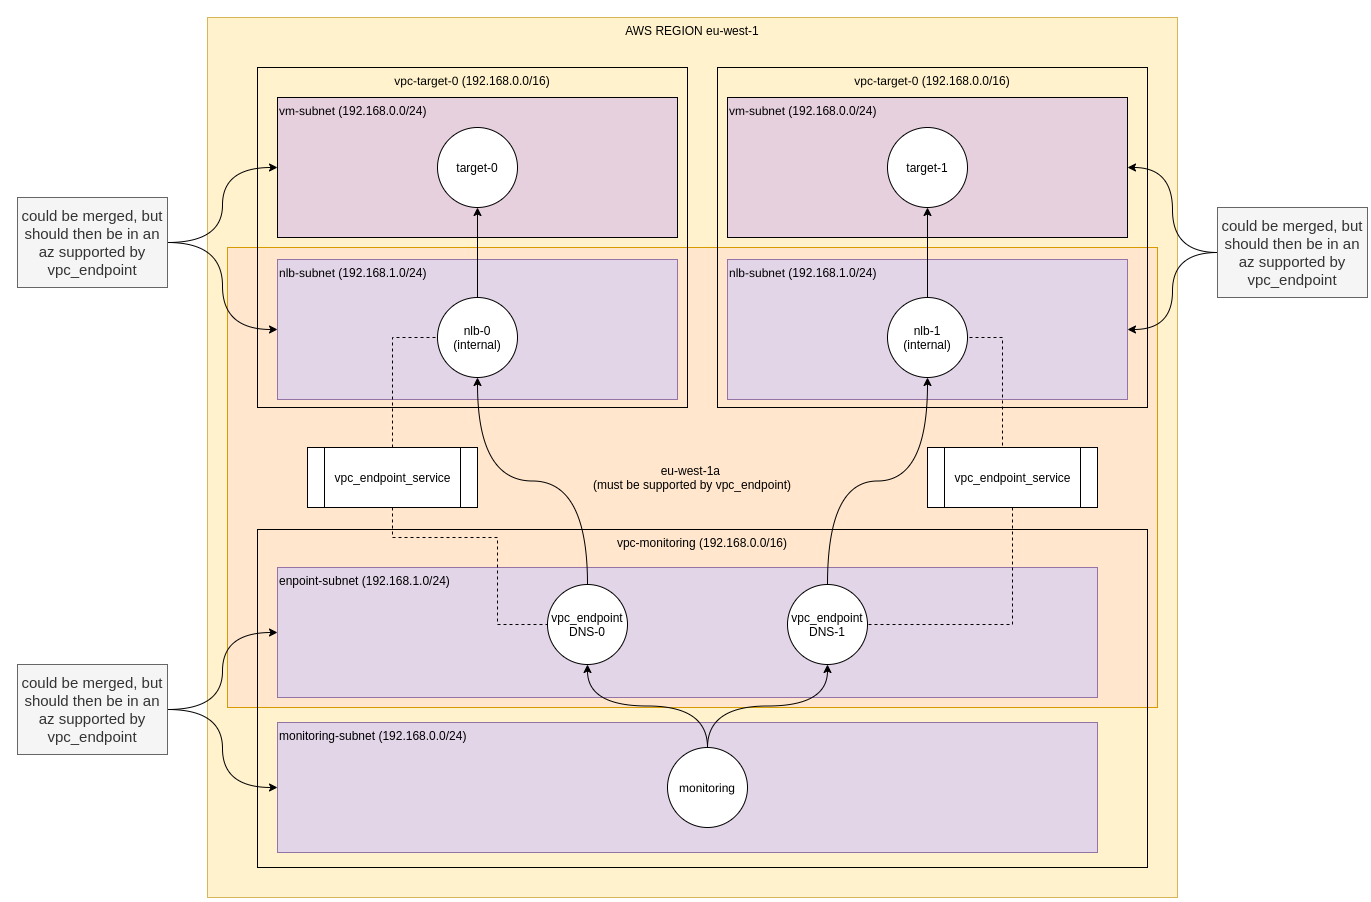
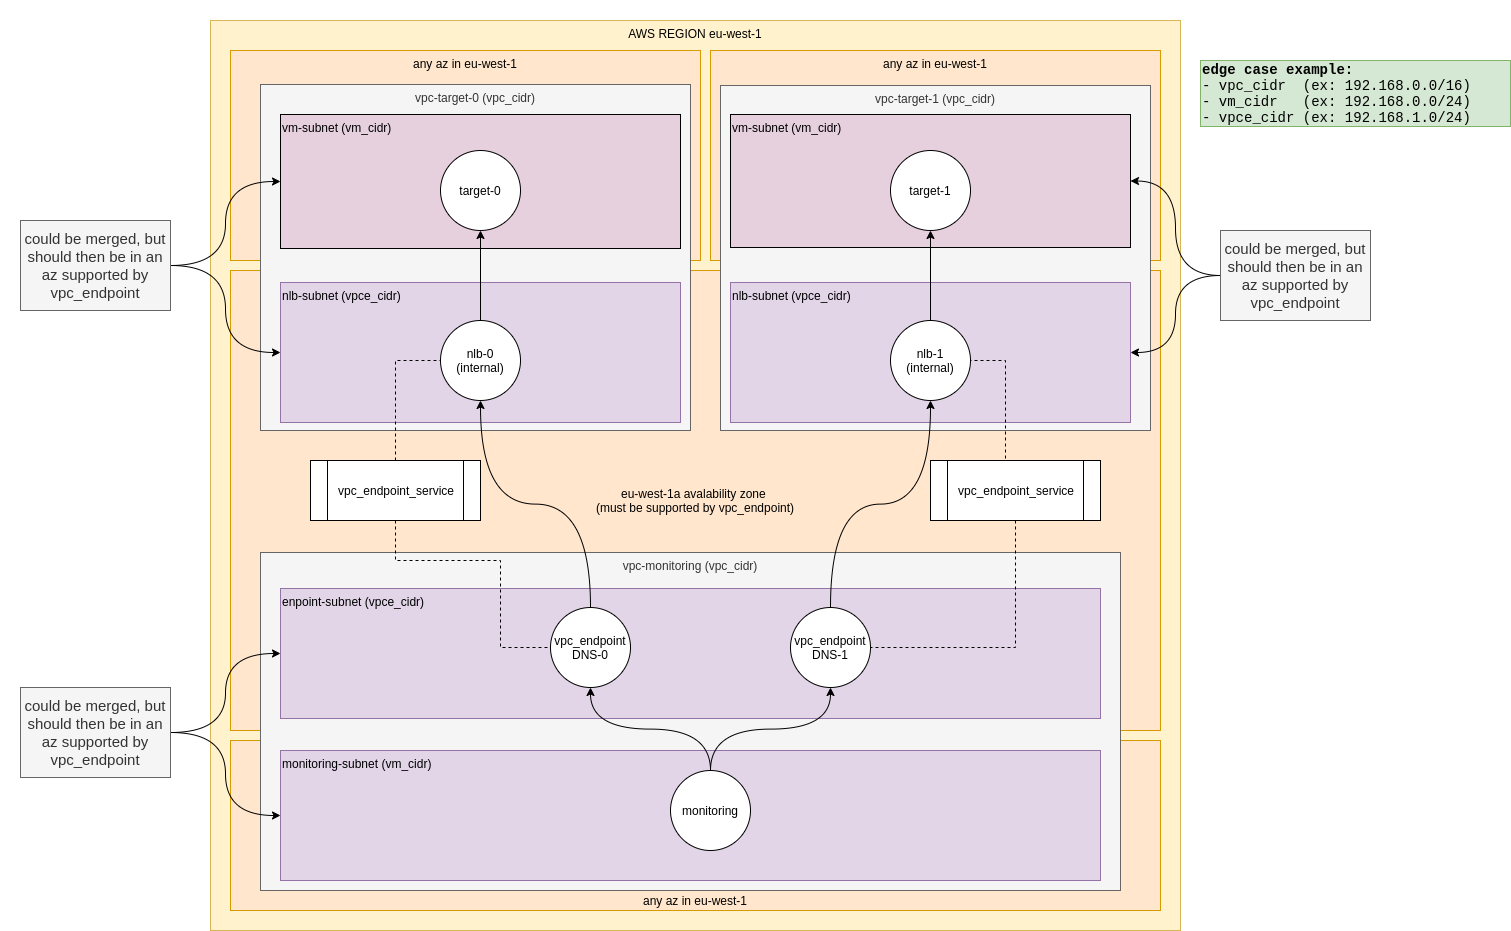
update doc

diff --git a/README.md b/README.md
@@ -1,6 +1,8 @@
 # VPC endpoint demo
 
-what we're able to achieve : SSH connection from monitoring VM to target_0 & target_1
+what we're able to achieve : SSH connection from monitoring VM to both target_0 & target_1 VMs even if VPC & Subnets CIDR overlap.
+
+NB : these CIDRs actually don't have to overlap, we're displaying an edge case were they do.
 
 ## diagram of the demo
 ![architecture](./docs/architecture.png)
